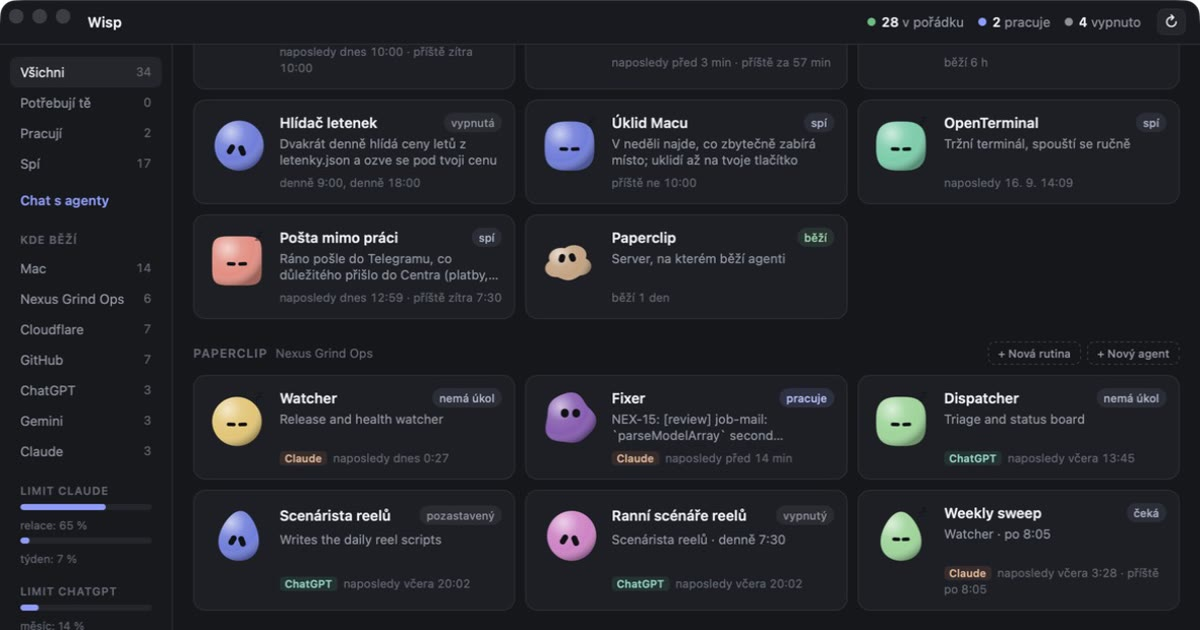
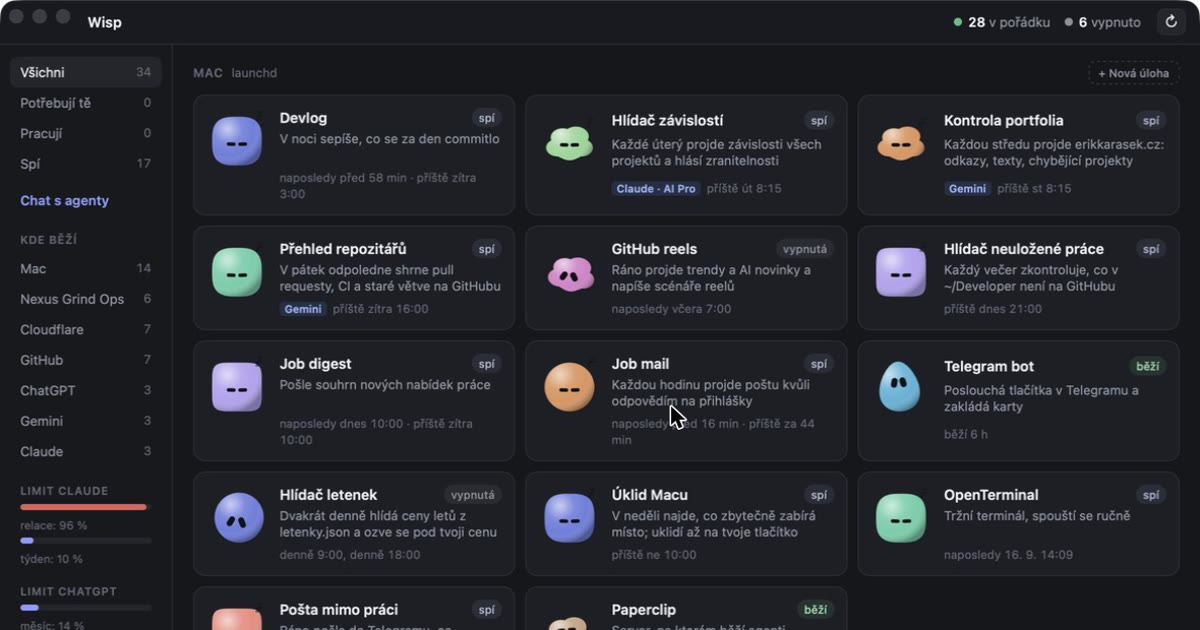
Video opens both pages, phone shots get a phone-sized column, and the Mac shot starts at the top of the list

diff --git a/src/case-study/content.ts b/src/case-study/content.ts
@@ -13,8 +13,9 @@ export type CaseStudyContent = {
   /** Optional numbered flow under the problem, for a project without screens of its own. */
   flow?: { heading: string; steps: { title: string; text: string }[] }
   shotsHeading: string
-  /** `src` ending in .mp4 is played as a video; `poster` is its still frame. */
-  shots: { src: string; title: string; text: string; poster?: string }[]
+  /** `src` ending in .mp4 is played as a video; `poster` is its still frame.
+   *  `portrait` marks a phone shot, which gets a narrow column instead of the full width. */
+  shots: { src: string; title: string; text: string; poster?: string; portrait?: true }[]
   build: { heading: string; items: { title: string; text: string }[] }
   decisions: { heading: string; items: { title: string; text: string }[] }
   status: { heading: string; body: string[] }
@@ -1297,6 +1298,12 @@ const wisp: Record<Lang, CaseStudyContent> = {
     shotsHeading: 'Jak to vypadá',
     shots: [
       {
+        src: '/video/wisp.mp4',
+        poster: '/video/wisp-poster.jpg',
+        title: 'Krátké video',
+        text: 'Patnáct vteřin toho, jak to chodí: notch s kroky agenta, povolení pro Clauda jedním klikem, appka na iPhonu a widgety s Dynamic Islandem.',
+      },
+      {
         src: '/img/case/wisp-mac.webp',
         title: 'Mac',
         text: 'Celá parta na jedné obrazovce: vlevo filtry podle stavu a podle toho, kde co běží, a pod nimi zbývající limity Clauda, ChatGPT a Gemini. Karty ukazují, co která úloha dělá a kdy běžela naposledy, ať je to launchd na Macu, agent na Paperclipu nebo worker na Cloudflare.',
@@ -1308,19 +1315,15 @@ const wisp: Record<Lang, CaseStudyContent> = {
       },
       {
         src: '/img/case/wisp-phone.webp',
+        portrait: true,
         title: 'iPhone',
         text: 'Nativní appka ve SwiftUI, nasazená přes SideStore. Nahoře agent, který zrovna pracuje, i s posledními kroky, pod ním limity s časem obnovení a filtry podle stavu. Stav i příkazy tečou přes relay, telefon se nikdy nepřipojuje k Macu napřímo.',
       },
       {
         src: '/img/case/wisp-agents.webp',
+        portrait: true,
         title: 'Agenti',
         text: 'Karta na agenta: na čem běží (Claude, ChatGPT), jestli pracuje, spí nebo je vypnutý, a čím se zrovna zabývá. Odsud se taky zadává nový úkol, takže práci rozjedu z mobilu a nemusím k počítači.',
-      },
-      {
-        src: '/video/wisp.mp4',
-        poster: '/video/wisp-poster.jpg',
-        title: 'Krátké video',
-        text: 'Patnáct vteřin toho, jak to chodí: notch s kroky agenta, povolení pro Clauda jedním klikem, appka na iPhonu a widgety s Dynamic Islandem.',
       },
     ],
     build: {
@@ -1401,6 +1404,12 @@ const wisp: Record<Lang, CaseStudyContent> = {
     shotsHeading: 'What it looks like',
     shots: [
       {
+        src: '/video/wisp.mp4',
+        poster: '/video/wisp-poster.jpg',
+        title: 'A short video',
+        text: 'Fifteen seconds of how it goes: the notch with an agent\'s steps, a Claude permission answered in one click, the iPhone app, and the widgets with the Dynamic Island.',
+      },
+      {
         src: '/img/case/wisp-mac.webp',
         title: 'Mac',
         text: 'The whole crew on one screen: filters by state and by where each job runs on the left, with what is left of the Claude, ChatGPT and Gemini subscriptions under them. Each card says what that job is doing and when it last ran, whether it is launchd on the Mac, an agent on Paperclip or a worker on Cloudflare.',
@@ -1412,19 +1421,15 @@ const wisp: Record<Lang, CaseStudyContent> = {
       },
       {
         src: '/img/case/wisp-phone.webp',
+        portrait: true,
         title: 'iPhone',
         text: 'A native SwiftUI app, sideloaded with SideStore. The working agent and its latest steps on top, then the limits with their reset times and filters by state. State and commands travel through the relay; the phone never talks to the Mac directly.',
       },
       {
         src: '/img/case/wisp-agents.webp',
+        portrait: true,
         title: 'Agents',
         text: 'A card per agent: which engine it runs on (Claude, ChatGPT), whether it is working, asleep or switched off, and what it is busy with. A new task starts here too, so work can begin from the phone without going back to the desk.',
-      },
-      {
-        src: '/video/wisp.mp4',
-        poster: '/video/wisp-poster.jpg',
-        title: 'A short video',
-        text: 'Fifteen seconds of how it goes: the notch with an agent\'s steps, a Claude permission answered in one click, the iPhone app, and the widgets with the Dynamic Island.',
       },
     ],
     build: {

diff --git a/src/case-study/CaseStudy.tsx b/src/case-study/CaseStudy.tsx
@@ -92,7 +92,7 @@ export function CaseStudy({ slug }: { slug: StudySlug }) {
                     instead of stretching across the page. Muted and loopable, controls for the rest. */}
                 <div
                   className={`overflow-hidden rounded-2xl border border-line bg-black shadow-[0_10px_30px_rgb(var(--glow)/0.12)] ${
-                    s.src.endsWith('.mp4') ? 'mx-auto w-full max-w-xs' : ''
+                    s.src.endsWith('.mp4') || s.portrait ? 'mx-auto w-full max-w-xs' : ''
                   }`}
                 >
                   {s.src.endsWith('.mp4') ? (
